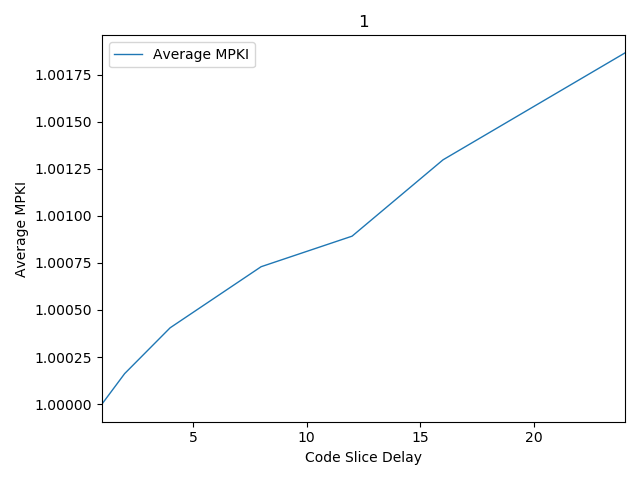
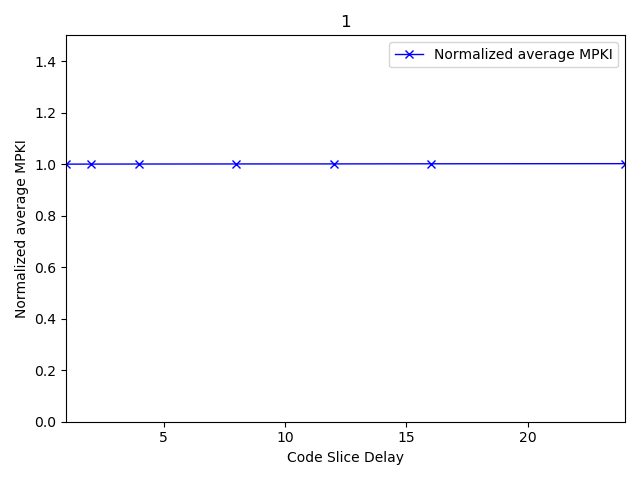
making csdelay plot flat

diff --git a/csdelay/plot.py b/csdelay/plot.py
@@ -53,20 +53,22 @@ for data_label in data_labels:
   l = data[str(data_label)]
   avg.append(float(sum(l)/len(l)/1.0))
 
+l = "Average MPKI"
 if normalize>0:
   n = avg[0]
+  l = "Normalized average MPKI"
   for i in range(len(avg)):
     avg[i] = avg[i]/n
 
-df = pd.DataFrame({'Average MPKI': avg}, index=data_labels)
+df = pd.DataFrame({l: avg}, index=data_labels)
 # plot data
 print("Parsed reports... Plotting...")
 print(avg)
 print(data_labels)
 # Convert data to pandas DataFrame.
 
-ax = df.plot(kind='line', lw=1)
-ax.set_ylabel("Average MPKI")
+ax = df.plot(kind='line', lw=1, style=["bx-"], ylim=(0,1.5))
+ax.set_ylabel(l)
 ax.set_xlabel("Code Slice Delay")
 ax.set_title(plot_title)
 plt.tight_layout()
